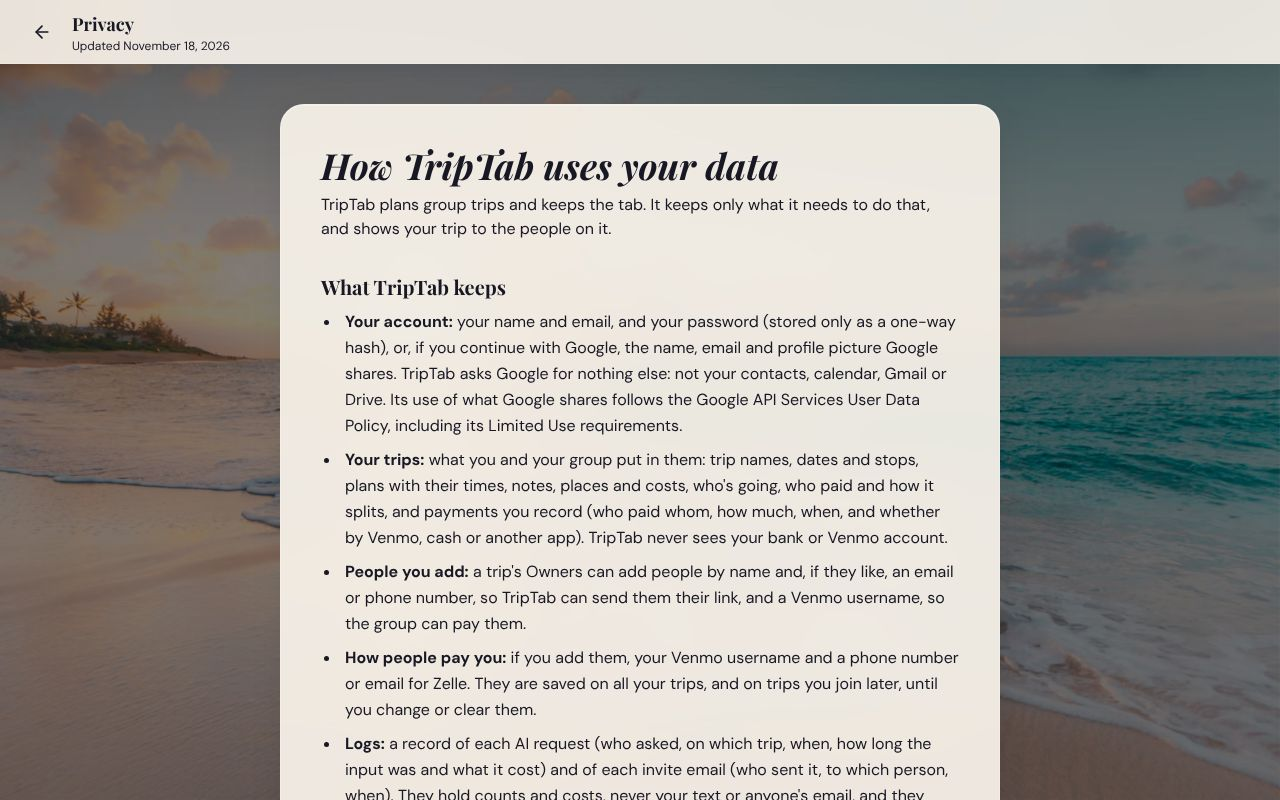
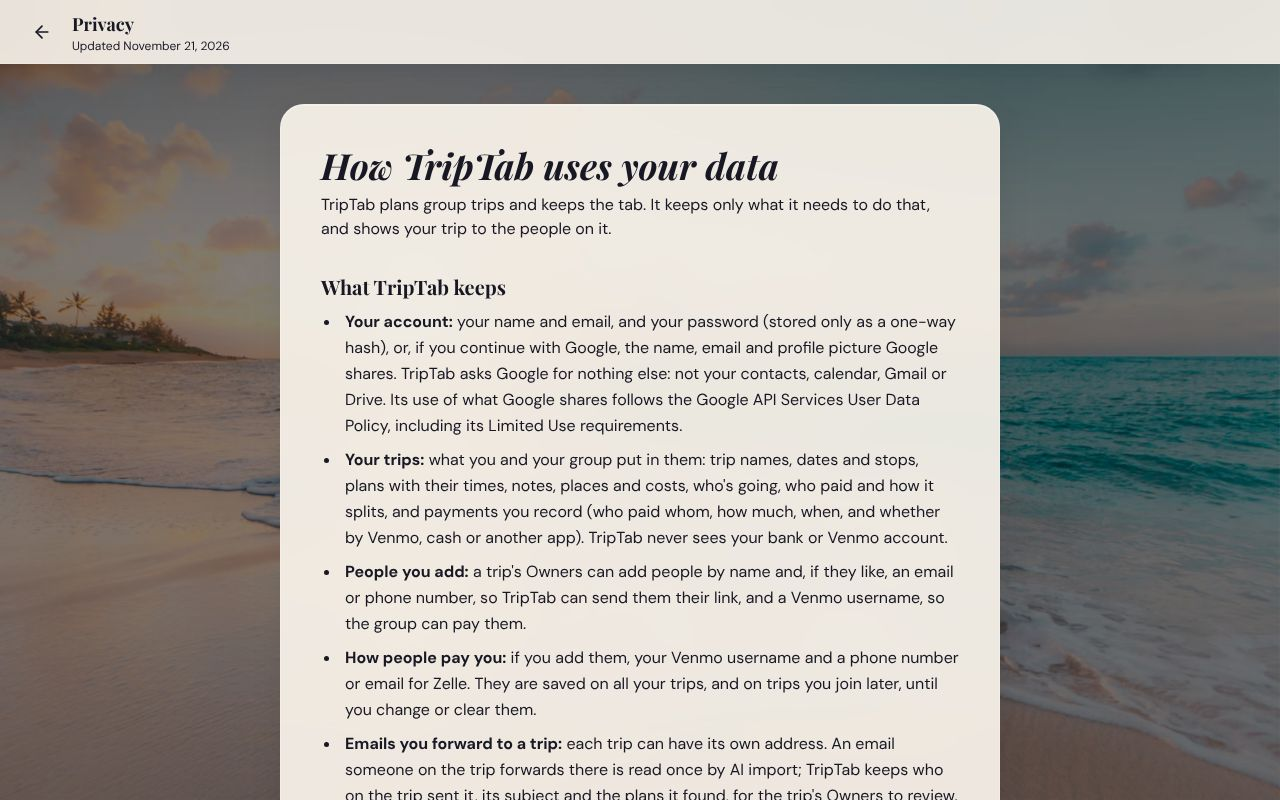
Email-in: a bounce names the address it came from (C31, part 1)
Two flight confirmations bounced on 11/21 with "Only people on the trip can send it
bookings" and no hint why: they came from an address that isn't on Mike's account.

- inbox-email returns the From address it checked with a refusal (not_on_trip,
  not_verified) and logs why, with the address masked to its first letter and domain.
- The Worker's bounce (app/worker/bounce.ts, unit tested) names that address and the fix,
  and tells a failed DMARC check apart from a sender who isn't on the trip. A bounce goes
  back only to the address that sent it. The 404 bounce now points where the trip's
  address really is (AI help, I have bookings), not the People panel.
- The privacy page catches up: email-in (what's kept, who sees it, the masked log line),
  Cloudflare receiving trip mail, Anthropic reading forwarded email, and Owners adding a
  Zelle (C20, 11/20). Dated 11/21.

Part 2, Also forward from (extra addresses confirmed by a code), needs a migration and
follows in its own pull request.

Changed region(s): [[0.25, 0.9062, 0.75, 1.0]]

diff --git a/app/src/pages/Privacy.tsx b/app/src/pages/Privacy.tsx
@@ -7,7 +7,7 @@ import { LANDING_PHOTO } from "../lib/photos";
  * TripTab's privacy page (Build 3), linked from the landing page, sign-in and Google's consent
  * screen. Every line describes what the code does today: change it with the code it describes.
  */
-const UPDATED = "November 18, 2026";
+const UPDATED = "November 21, 2026";
 const CONTACT = "privacy@triptab.org";
 
 const SECTIONS: { title: string; body: ReactNode }[] = [
@@ -35,6 +35,13 @@ const SECTIONS: { title: string; body: ReactNode }[] = [
           are saved on all your trips, and on trips you join later, until you change or clear them.
         </li>
         <li>
+          <b>Emails you forward to a trip:</b> each trip can have its own address. An email someone on the trip
+          forwards there is read once by AI import; TripTab keeps who on the trip sent it, its subject and the plans
+          it found, for the trip's Owners to review. The email itself is never stored. An email from an address that
+          isn't on the trip is turned away, and the email service's logs keep why, with only the sender's first letter
+          and domain.
+        </li>
+        <li>
           <b>Logs:</b> a record of each AI request (who asked, on which trip, when, how long the input was and what it
           cost) and of each invite email (who sent it, to which person, when). They hold counts and costs, never your
           text or anyone's email, and they stay after a trip is deleted so TripTab's costs and daily limits add up.
@@ -55,10 +62,11 @@ const SECTIONS: { title: string; body: ReactNode }[] = [
           or make a new one at any time.
         </li>
         <li>Emails and phone numbers of the people on a trip are shown to its Owners only.</li>
+        <li>Bookings forwarded to a trip's address, and who sent them, are shown to its Owners only.</li>
         <li>
           Your Venmo username and Zelle phone or email, if you add them, are shown to the people on your trips, so they
-          can pay you. Only you can add your Zelle. Once you save your own, only you can change either one; until then, a
-          trip's Owners can add or fix your Venmo username on that trip.
+          can pay you. Once you save your own, only you can change either one; until then, a trip's Owners can add or fix
+          your Venmo username and Zelle on that trip.
         </li>
         <li>A price you mark as your own (when everyone pays their own) is shown only to you.</li>
         <li>TripTab never sells your data, shows ads, or shares it with anyone beyond the services below.</li>
@@ -73,13 +81,15 @@ const SECTIONS: { title: string; body: ReactNode }[] = [
           <b>Supabase</b> stores accounts and trips and runs TripTab's server code.
         </li>
         <li>
-          <b>Cloudflare</b> serves the site at triptab.org.
+          <b>Cloudflare</b> serves the site at triptab.org, and receives email sent to a trip's own address and hands
+          it to TripTab.
         </li>
         <li>
           <b>Anthropic (Claude)</b> reads what you give the AI buttons, such as a pasted booking email, a PDF or a
           screenshot, along with the trip's name, dates, stops and plans, and suggests plans back. It may search the
           web to check things like a flight's times. On Start a trip, "Set it up" sends it the description you typed
-          and today's date, and nothing else. Nothing goes to it unless you tap one of these buttons, and under
+          and today's date, and nothing else. An email forwarded to a trip's address goes to it the same way. Nothing goes to it unless you tap one of
+          these buttons or forward an email, and under
           Anthropic's terms for businesses it isn't used to train its models. Nothing is saved until you review it.
         </li>
         <li>

diff --git a/supabase/functions/inbox-email/index.ts b/supabase/functions/inbox-email/index.ts
@@ -21,7 +21,9 @@ import {
   capDecision, checkProposals, costUsd, EFFORT, MAX_SEARCHES, MAX_TOKENS, MODEL, nyDayStart, PROPOSE_TOOL, readCap,
   SYSTEM_PROMPT, TIMEOUT_MS, type Usage,
 } from "../import-bookings/rules.ts";
-import { accountEmails, dmarcPassed, importInput, inboxToken, isOnTrip, MAX_EMAIL_BYTES, MAX_EMAILS_PER_TRIP_DAY, sameSecret, senderAddress } from "./rules.ts";
+import {
+  accountEmails, dmarcPassed, importInput, inboxToken, isOnTrip, maskedAddress, MAX_EMAIL_BYTES, MAX_EMAILS_PER_TRIP_DAY, sameSecret, senderAddress,
+} from "./rules.ts";
 
 const DEV_PROJECT = "iivseqkvixmvcpldarqy";
 const REAL = ["ok", "no_plans", "refused", "invalid_output", "timeout", "error"];
@@ -35,6 +37,12 @@ const json = (body: unknown, status = 200) =>
   new Response(JSON.stringify(body), { status, headers: { ...cors, "Content-Type": "application/json" } });
 // The Worker only needs to know whether to bounce the email; the reason is for the logs.
 const done = (status: number, code: string) => json({ code }, status);
+// A refused sender (C31, Mike's call 11/21): the Worker's bounce names the address the email came
+// from (a bounce goes back only to that address), and the logs say why, with the address masked.
+const refuse = (code: string, sender: string | null) => {
+  console.log(`inbox refused: ${code}, from ${maskedAddress(sender)}`);
+  return json({ code, from: sender }, 403);
+};
 
 Deno.serve(async (req) => {
   if (req.method === "OPTIONS") return new Response("ok", { headers: cors });
@@ -87,11 +95,11 @@ Deno.serve(async (req) => {
   }
 
   // A From address can be forged: Cloudflare's own check (DMARC) says whether this one was.
-  if (!testRun && !dmarcPassed(req.headers.get("x-auth-results"))) return done(403, "not_verified");
+  const sender = senderAddress(mail.from?.address ?? null);
+  if (!testRun && !dmarcPassed(req.headers.get("x-auth-results"))) return refuse("not_verified", sender);
 
   // The sender has to be on the trip: their account's email, or the email an Owner entered for them.
   const { data: people } = await admin.from("travelers").select("id, user_id, email, role").eq("trip_id", tripId);
-  const sender = senderAddress(mail.from?.address ?? null);
   const accounts = await Promise.all(
     (people ?? []).filter((p) => p.user_id).map(async (p) => ({ id: p.id as string, user_id: p.user_id as string, emails: accountEmails((await admin.auth.admin.getUserById(p.user_id)).data.user) })),
   );
@@ -103,7 +111,7 @@ Deno.serve(async (req) => {
     const me = (people ?? []).find((p) => p.user_id === testUser);
     if (me?.role !== "owner") return done(403, "not_owner");
   } else if (!match) {
-    return done(403, "not_on_trip");
+    return refuse("not_on_trip", sender);
   }
   const fromTraveler = testRun ? ((people ?? []).find((p) => p.user_id === testUser)?.id as string) : match!.id;
   // Its AI call counts toward the sender's own daily imports, or the trip's creator's when they have no account.

diff --git a/app/src/lib/bounce.test.ts b/app/src/lib/bounce.test.ts
@@ -1,0 +1,39 @@
+// The triptab Worker's bounces (app/worker/bounce.ts), C31: a refused sender is named, with the fix.
+import { describe, expect, it } from "vitest";
+import { bounceFor } from "../../worker/bounce";
+
+describe("bounceFor", () => {
+  it("names the address a refused email came from and how to fix it", () => {
+    const text = bounceFor(403, { code: "not_on_trip", from: "mike.personal@gmail.com" })!;
+    expect(text).toContain("This came from mike.personal@gmail.com");
+    expect(text).toContain("isn't on this trip");
+    expect(text).toContain("sign in to TripTab with");
+  });
+
+  it("says when the sender couldn't be checked, not that they're off the trip", () => {
+    const text = bounceFor(403, { code: "not_verified", from: "mike@stern.nyu.edu" })!;
+    expect(text).toContain("This came from mike@stern.nyu.edu");
+    expect(text).toContain("couldn't check");
+    expect(text).not.toContain("isn't on this trip");
+  });
+
+  it("still bounces when the function gave no address", () => {
+    expect(bounceFor(403, null)).toMatch(/^This came from an address, which isn't on this trip/);
+    expect(bounceFor(403, { code: "not_on_trip", from: null })).toMatch(/^This came from an address,/);
+  });
+
+  it("keeps a mail server's reply plain: one line of ASCII, no long runs", () => {
+    const text = bounceFor(403, { code: "not_on_trip", from: "évil\r\nX-Header: 1@x.com" })!;
+    expect(text).toMatch(/^[\x20-\x7e]+$/);
+    const long = bounceFor(403, { code: "not_on_trip", from: `${"a".repeat(300)}@x.com` })!;
+    expect(long.length).toBeLessThan(260);
+  });
+
+  it("keeps the other bounces, and takes everything else", () => {
+    expect(bounceFor(404, null)).toContain("no TripTab trip at that address");
+    expect(bounceFor(413, null)).toContain("8 MB");
+    expect(bounceFor(429, { code: "trip_capped" })).toContain("Try again tomorrow");
+    expect(bounceFor(200, { code: "ok" })).toBeNull();
+    expect(bounceFor(401, { code: "not_allowed" })).toBeNull();
+  });
+});

diff --git a/app/worker/bounce.ts b/app/worker/bounce.ts
@@ -1,0 +1,37 @@
+// What the sender's mail program tells them when the triptab Worker can't take an email. Kept apart
+// from index.ts so the unit tests read it (src/lib/bounce.test.ts) without loading the Worker.
+//
+// C31 (Mike's call, 11/21): two flight confirmations bounced with "Only people on the trip can send
+// it bookings" and no hint why. They came from an address that wasn't on his account. The bounce now
+// names the address the email came from (a bounce goes back only to that address) and how to fix it.
+
+/** The answer inbox-email gives the Worker: why it refused, and for a refused sender, its address. */
+export interface InboxAnswer {
+  code?: unknown;
+  from?: unknown;
+}
+
+const BY_STATUS: Record<number, string> = {
+  404: "There's no TripTab trip at that address. Copy it again in the trip: AI help, then I have bookings.",
+  413: "That email is too big for TripTab (8 MB at most).",
+  429: "That trip has taken in all the emails it can today. Try again tomorrow, or add the booking in the app.",
+};
+
+/** A mail server's reply is plain ASCII on one line: anything else in an address is dropped. */
+const plain = (s: unknown) =>
+  String(s ?? "")
+    .replace(/[^\x21-\x7e]/g, "")
+    .slice(0, 100);
+
+/** The bounce for the function's answer, or null when the email was taken. */
+export function bounceFor(status: number, answer: InboxAnswer | null): string | null {
+  if (status === 403) {
+    const from = plain(answer?.from);
+    const it = from ? `This came from ${from}` : "This came from an address";
+    if (answer?.code === "not_verified") {
+      return `${it}, but TripTab couldn't check it really came from there. Forward it again straight from your own mail app.`;
+    }
+    return `${it}, which isn't on this trip in TripTab. Forward it from the email you sign in to TripTab with.`;
+  }
+  return BY_STATUS[status] ?? null;
+}

diff --git a/app/worker/index.ts b/app/worker/index.ts
@@ -22,15 +22,9 @@ interface IncomingEmail {
   setReject(reason: string): void;
 }
 
-const MAX_EMAIL_BYTES = 8_000_000;
+import { bounceFor, type InboxAnswer } from "./bounce";
 
-/** What the sender's mail program tells them when the email can't be taken. */
-const BOUNCE: Record<number, string> = {
-  403: "Only people on the trip can send it bookings. Forward it from the email address you use for TripTab, from your usual mail app.",
-  404: "There's no TripTab trip at that address. Copy the address again from the trip's People panel.",
-  413: "That email is too big for TripTab (8 MB at most).",
-  429: "That trip has taken in all the emails it can today. Try again tomorrow, or add the booking in the app.",
-};
+const MAX_EMAIL_BYTES = 8_000_000;
 
 export default {
   fetch(request: Request, env: Env): Promise<Response> {
@@ -38,7 +32,7 @@ export default {
   },
 
   async email(message: IncomingEmail, env: Env): Promise<void> {
-    if (message.rawSize > MAX_EMAIL_BYTES) return message.setReject(BOUNCE[413]);
+    if (message.rawSize > MAX_EMAIL_BYTES) return message.setReject(bounceFor(413, null)!);
     if (!env.INBOX_SECRET || !env.INBOX_URL) return message.setReject("TripTab's email inbox isn't set up yet. Add the booking in the app for now.");
     const raw = await new Response(message.raw).arrayBuffer();
     const res = await fetch(env.INBOX_URL, {
@@ -54,7 +48,9 @@ export default {
       },
       body: raw,
     });
-    if (BOUNCE[res.status]) return message.setReject(BOUNCE[res.status]);
+    const answer = (await res.json().catch(() => null)) as InboxAnswer | null;
+    const bounce = bounceFor(res.status, answer);
+    if (bounce) return message.setReject(bounce);
     // Anything else was taken: plans to review, or a note on the trip saying why there were none.
   },
 };

diff --git a/app/src/lib/inboxRules.test.ts b/app/src/lib/inboxRules.test.ts
@@ -3,7 +3,7 @@
  * it, and what part of a forwarded email goes to AI import. Made-up emails only.
  */
 import { describe, expect, it } from "vitest";
-import { accountEmails, dmarcPassed, htmlToText, importInput, inboxAddress, inboxToken, isOnTrip, sameSecret, senderAddress } from "../../../supabase/functions/inbox-email/rules.ts";
+import { accountEmails, dmarcPassed, htmlToText, importInput, inboxAddress, inboxToken, isOnTrip, maskedAddress, sameSecret, senderAddress } from "../../../supabase/functions/inbox-email/rules.ts";
 import { inboxAddressFor } from "./inbox";
 
 const TOKEN = "3f9a0b1c2d3e4f5a";
@@ -36,6 +36,15 @@ describe("who sent it", () => {
     expect(isOnTrip("mike@example.com", ["Mike@example.com ", null])).toBe(true);
     expect(isOnTrip("stranger@example.com", ["mike@example.com"])).toBe(false);
     expect(isOnTrip(null, ["mike@example.com"])).toBe(false);
+  });
+});
+
+describe("a refused sender in the logs (C31)", () => {
+  it("keeps the first letter and the domain, never the whole address", () => {
+    expect(maskedAddress("mike.personal@gmail.com")).toBe("m***@gmail.com");
+    expect(maskedAddress("x@stern.nyu.edu")).toBe("x***@stern.nyu.edu");
+    expect(maskedAddress(null)).toBe("(none)");
+    expect(maskedAddress("not an address")).toBe("(none)");
   });
 });
 

diff --git a/supabase/functions/inbox-email/rules.ts b/supabase/functions/inbox-email/rules.ts
@@ -39,6 +39,17 @@ export function accountEmails(user: { email?: string | null; identities?: { iden
   return [...new Set(all.filter((e): e is string => typeof e === "string" && e.includes("@")).map((e) => e.trim().toLowerCase()))];
 }
 
+/**
+ * An address as the function's logs show it (C31): its first letter, then the domain
+ * ("m***@gmail.com"), enough to tell which of someone's addresses a refused email came from without
+ * keeping the address itself in the logs.
+ */
+export function maskedAddress(address: string | null | undefined): string {
+  const [local, domain] = String(address ?? "").split("@");
+  if (!local || !domain) return "(none)";
+  return `${local[0]}***@${domain}`;
+}
+
 /** A sender counts when the address matches one on the trip (an account's email or the email an Owner entered). */
 export function isOnTrip(sender: string | null, emails: (string | null | undefined)[]): boolean {
   if (!sender) return false;
